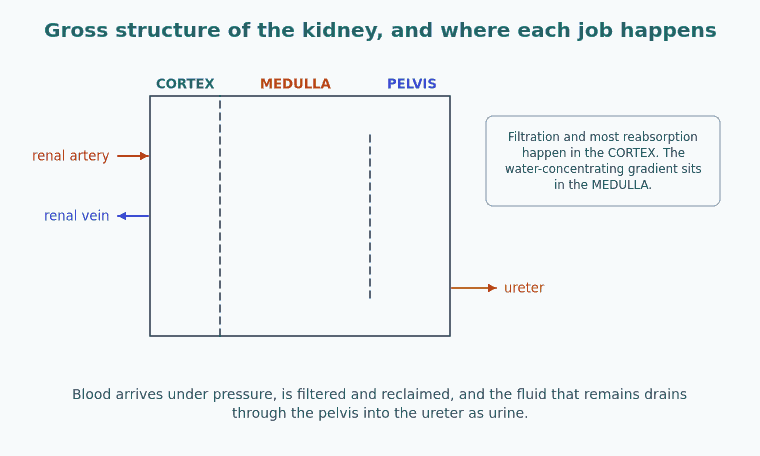
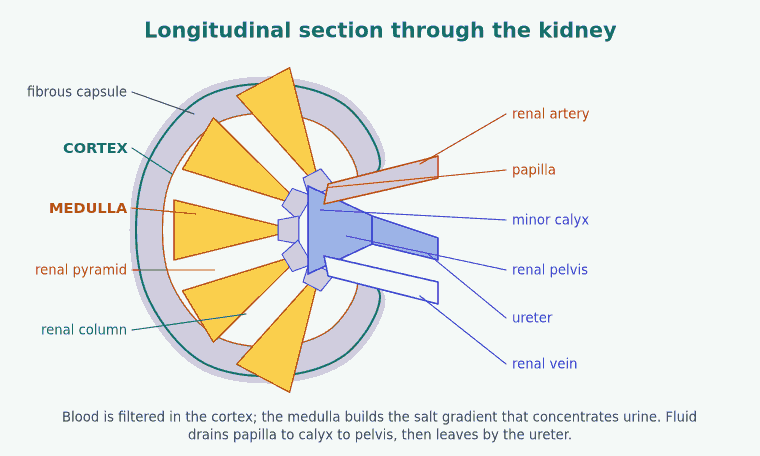
External agent changes

diff --git a/plugins/generate-lesson-diagrams.js b/plugins/generate-lesson-diagrams.js
@@ -79,6 +79,9 @@ export default function generateLessonDiagrams() {
         const n = String(i + 1).padStart(2, '0');
         // A page is normally a draw function named by prefix+NN. Some slides
         // point at a different asset path, so those declare { path, draw }.
+        // A page marked skip is served by a real image decoded from assets-b64,
+        // so nothing must be drawn over it here.
+        if (page && page.skip) return;
         const draw = typeof page === 'function' ? page : page.draw;
         const file = page.path
           ? path.join(publicDir, page.path)
